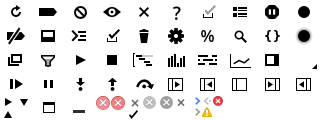
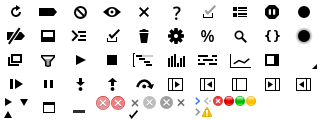
DevTools: implement hidpi-friendly success/error/warning balls.
BUG=234932

Review URL: https://codereview.chromium.org/14084010

git-svn-id: svn://svn.chromium.org/blink/trunk@148975 bbb929c8-8fbe-4397-9dbb-9b2b20218538

Changed region(s): [[0.6875, 0.8, 0.8125, 0.9]]

diff --git a/Source/devtools/front_end/ApplicationCacheItemsView.js b/Source/devtools/front_end/ApplicationCacheItemsView.js
@@ -41,9 +41,7 @@ WebInspector.ApplicationCacheItemsView = function(model, frameId)
     this.deleteButton.visible = false;
     this.deleteButton.addEventListener("click", this._deleteButtonClicked, this);
 
-    this.connectivityIcon = document.createElement("img");
-    this.connectivityIcon.className = "storage-application-cache-connectivity-icon";
-    this.connectivityIcon.src = "";
+    this.connectivityIcon = document.createElement("div");
     this.connectivityMessage = document.createElement("span");
     this.connectivityMessage.className = "storage-application-cache-connectivity";
     this.connectivityMessage.textContent = "";
@@ -51,9 +49,7 @@ WebInspector.ApplicationCacheItemsView = function(model, frameId)
     this.divider = document.createElement("span");
     this.divider.className = "status-bar-item status-bar-divider";
 
-    this.statusIcon = document.createElement("img");
-    this.statusIcon.className = "storage-application-cache-status-icon";
-    this.statusIcon.src = "";
+    this.statusIcon = document.createElement("div");
     this.statusMessage = document.createElement("span");
     this.statusMessage.className = "storage-application-cache-status";
     this.statusMessage.textContent = "";
@@ -119,18 +115,18 @@ WebInspector.ApplicationCacheItemsView.prototype = {
         
         var statusInformation = {};
         // We should never have UNCACHED status, since we remove frames with UNCACHED application cache status from the tree. 
-        statusInformation[applicationCache.UNCACHED]    = { src: "Images/errorRedDot.png", text: "UNCACHED" };
-        statusInformation[applicationCache.IDLE]        = { src: "Images/successGreenDot.png", text: "IDLE" };
-        statusInformation[applicationCache.CHECKING]    = { src: "Images/warningOrangeDot.png",  text: "CHECKING" };
-        statusInformation[applicationCache.DOWNLOADING] = { src: "Images/warningOrangeDot.png",  text: "DOWNLOADING" };
-        statusInformation[applicationCache.UPDATEREADY] = { src: "Images/successGreenDot.png",  text: "UPDATEREADY" };
-        statusInformation[applicationCache.OBSOLETE]    = { src: "Images/errorRedDot.png",      text: "OBSOLETE" };
+        statusInformation[applicationCache.UNCACHED]    = { className: "red-ball", text: "UNCACHED" };
+        statusInformation[applicationCache.IDLE]        = { className: "green-ball", text: "IDLE" };
+        statusInformation[applicationCache.CHECKING]    = { className: "orange-ball",  text: "CHECKING" };
+        statusInformation[applicationCache.DOWNLOADING] = { className: "orange-ball",  text: "DOWNLOADING" };
+        statusInformation[applicationCache.UPDATEREADY] = { className: "green-ball",  text: "UPDATEREADY" };
+        statusInformation[applicationCache.OBSOLETE]    = { className: "red-ball",      text: "OBSOLETE" };
 
         var info = statusInformation[status] || statusInformation[applicationCache.UNCACHED];
 
-        this.statusIcon.src = info.src;
+        this.statusIcon.className = "storage-application-cache-status-icon " + info.className;
         this.statusMessage.textContent = info.text;
-        
+
         if (this.isShowing() && this._status === applicationCache.IDLE && (oldStatus === applicationCache.UPDATEREADY || !this._resources))
             this._markDirty();
         this._maybeUpdate();
@@ -142,10 +138,10 @@ WebInspector.ApplicationCacheItemsView.prototype = {
     updateNetworkState: function(isNowOnline)
     {
         if (isNowOnline) {
-            this.connectivityIcon.src = "Images/successGreenDot.png";
+            this.connectivityIcon.className = "storage-application-cache-connectivity-icon green-ball";
             this.connectivityMessage.textContent = WebInspector.UIString("Online");
         } else {
-            this.connectivityIcon.src = "Images/errorRedDot.png";
+            this.connectivityIcon.className = "storage-application-cache-connectivity-icon red-ball";
             this.connectivityMessage.textContent = WebInspector.UIString("Offline");
         }
     },

diff --git a/Source/devtools/front_end/RequestHeadersView.js b/Source/devtools/front_end/RequestHeadersView.js
@@ -374,22 +374,21 @@ WebInspector.RequestHeadersView.prototype = {
         statusCodeElement.hidden = !this._request.statusCode;
 
         if (this._request.statusCode) {
-            var statusImageSource = "";
-            if (this._request.statusCode < 300 || this._request.statusCode === 304)
-                statusImageSource = "Images/successGreenDot.png";
-            else if (this._request.statusCode < 400)
-                statusImageSource = "Images/warningOrangeDot.png";
-            else
-                statusImageSource = "Images/errorRedDot.png";
-
-            requestMethodElement.title = this._formatHeader(WebInspector.UIString("Request Method"), this._request.requestMethod);
-
             var statusCodeFragment = document.createDocumentFragment();
             statusCodeFragment.createChild("div", "header-name").textContent = WebInspector.UIString("Status Code") + ":";
 
-            var statusCodeImage = statusCodeFragment.createChild("img", "resource-status-image");
-            statusCodeImage.src = statusImageSource;
+            var statusCodeImage = statusCodeFragment.createChild("div", "resource-status-image");
             statusCodeImage.title = this._request.statusCode + " " + this._request.statusText;
+
+            if (this._request.statusCode < 300 || this._request.statusCode === 304)
+                statusCodeImage.addStyleClass("green-ball");
+            else if (this._request.statusCode < 400)
+                statusCodeImage.addStyleClass("orange-ball");
+            else
+                statusCodeImage.addStyleClass("red-ball");
+
+            requestMethodElement.title = this._formatHeader(WebInspector.UIString("Request Method"), this._request.requestMethod);
+
             var value = statusCodeFragment.createChild("div", "header-value source-code");
             value.textContent = this._request.statusCode + " " + this._request.statusText;
             if (this._request.cached)

diff --git a/Source/devtools/front_end/auditsPanel.css b/Source/devtools/front_end/auditsPanel.css
@@ -137,16 +137,37 @@
     display: block;
 }
 
+.audit-result-view .severity-severe,
+.audit-result-view .severity-warning,
+.audit-result-view .severity-info {
+    background-image: url(Images/statusbarButtonGlyphs.png);
+    background-size: 320px 120px;
+    display: inline-block;
+    width: 10px;
+    height: 10px;
+    float: left;
+    margin-left: -28px;
+    margin-top: 3px;
+}
+
+@media (-webkit-min-device-pixel-ratio: 1.5) {
+.audit-result-view .severity-severe,
+.audit-result-view .severity-warning,
+.audit-result-view .severity-info {
+    background-image: url(Images/statusbarButtonGlyphs2x.png);
+}
+}
+
 .audit-result-view .severity-severe {
-    content: url(Images/errorRedDot.png);
+    background-position: -224px -96px;
 }
 
 .audit-result-view .severity-warning {
-    content: url(Images/warningOrangeDot.png);
+    background-position: -246px -96px;
 }
 
 .audit-result-view .severity-info {
-    content: url(Images/successGreenDot.png);
+    background-position: -235px -96px;
 }
 
 .audit-result-tree li.parent::before {
@@ -162,7 +183,7 @@
     margin-left: 3px;
     margin-right: 4px;
     position: relative;
-    top: 1px;
+    top: 2px;
 }
 
 @media (-webkit-min-device-pixel-ratio: 1.5) {
@@ -232,12 +253,6 @@
 
 .audit-result {
     font-weight: bold;
-}
-
-.audit-result img {
-    float: left;
-    margin-left: -28px;
-    margin-top: -1px;
 }
 
 .audit-launcher-view .progress-bar-container {

diff --git a/Source/devtools/front_end/inspector.css b/Source/devtools/front_end/inspector.css
@@ -975,7 +975,7 @@ body.remote .dock-status-bar-item {
     -webkit-mask-position: -64px 0;
 }
 
-.error-icon-small, .warning-icon-small {
+.error-icon-small, .warning-icon-small, .red-ball, .green-ball, .orange-ball {
     background-image: url(Images/statusbarButtonGlyphs.png);
     background-size: 320px 120px;
     width: 10px;
@@ -984,7 +984,7 @@ body.remote .dock-status-bar-item {
 }
 
 @media (-webkit-min-device-pixel-ratio: 1.5) {
-.error-icon-small, .warning-icon-small {
+.error-icon-small, .warning-icon-small, .red-ball, .green-ball, .orange-ball {
     background-image: url(Images/statusbarButtonGlyphs2x.png);
 }
 }
@@ -995,6 +995,18 @@ body.remote .dock-status-bar-item {
 
 .warning-icon-small {
     background-position: -202px -107px;
+}
+
+.red-ball {
+    background-position: -224px -96px;
+}
+
+.green-ball {
+    background-position: -235px -96px;
+}
+
+.orange-ball {
+    background-position: -246px -96px;
 }
 
 #error-warning-count {
@@ -2364,8 +2376,7 @@ body.inactive li.selected .bubble.search-matches {
 }
 
 .storage-application-cache-status-icon, .storage-application-cache-connectivity-icon {
-    margin-bottom: -3px;
-    margin-left: 5px;
+    margin: 5px 5px 0;
     vertical-align: middle;
 }
 

diff --git a/Source/devtools/front_end/AuditResultView.js b/Source/devtools/front_end/AuditResultView.js
@@ -81,7 +81,7 @@ WebInspector.AuditCategoryResultPane = function(categoryResult)
         treeElement.listItemElement.addStyleClass("audit-result");
 
         if (ruleResult.severity) {
-            var severityElement = document.createElement("img");
+            var severityElement = document.createElement("div");
             severityElement.className = "severity-" + ruleResult.severity;
             treeElement.listItemElement.appendChild(severityElement);
         }

diff --git a/Source/devtools/front_end/resourceView.css b/Source/devtools/front_end/resourceView.css
@@ -74,7 +74,8 @@
 }
 
 .resource-status-image {
-    margin-top: -3px;
+    margin-top: -2px;
+    margin-right: 3px;
     vertical-align: middle;
 }
 
